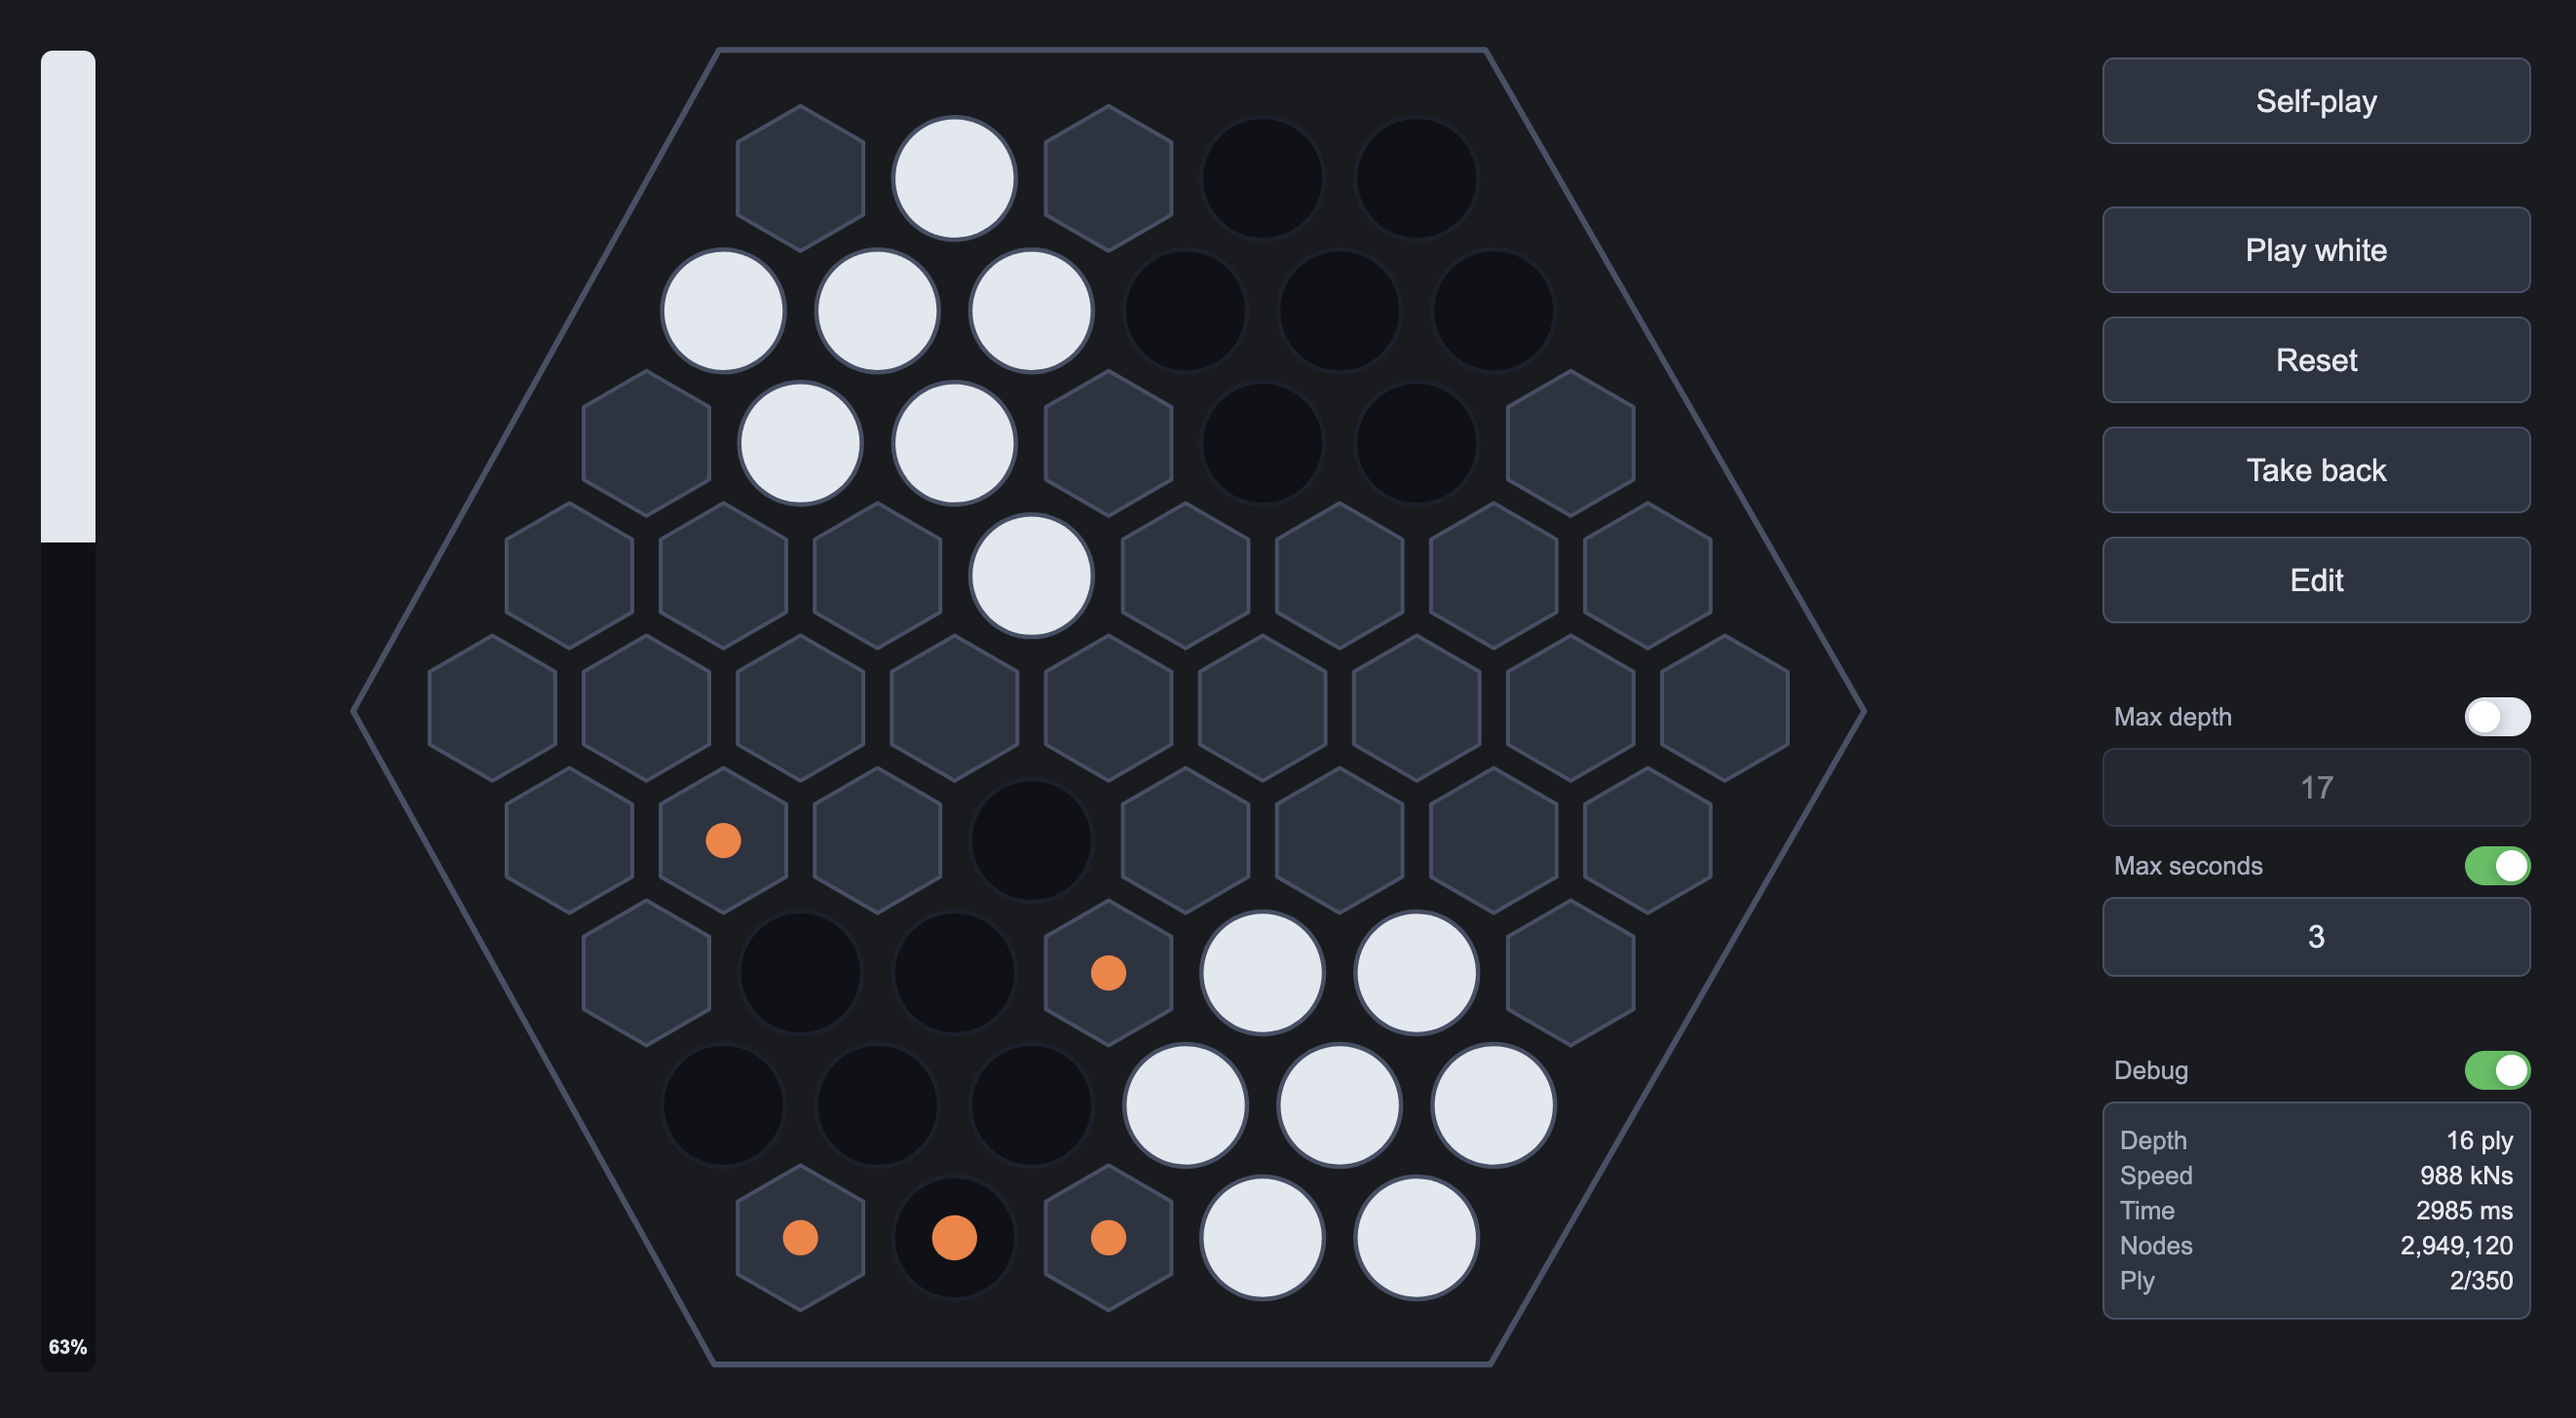
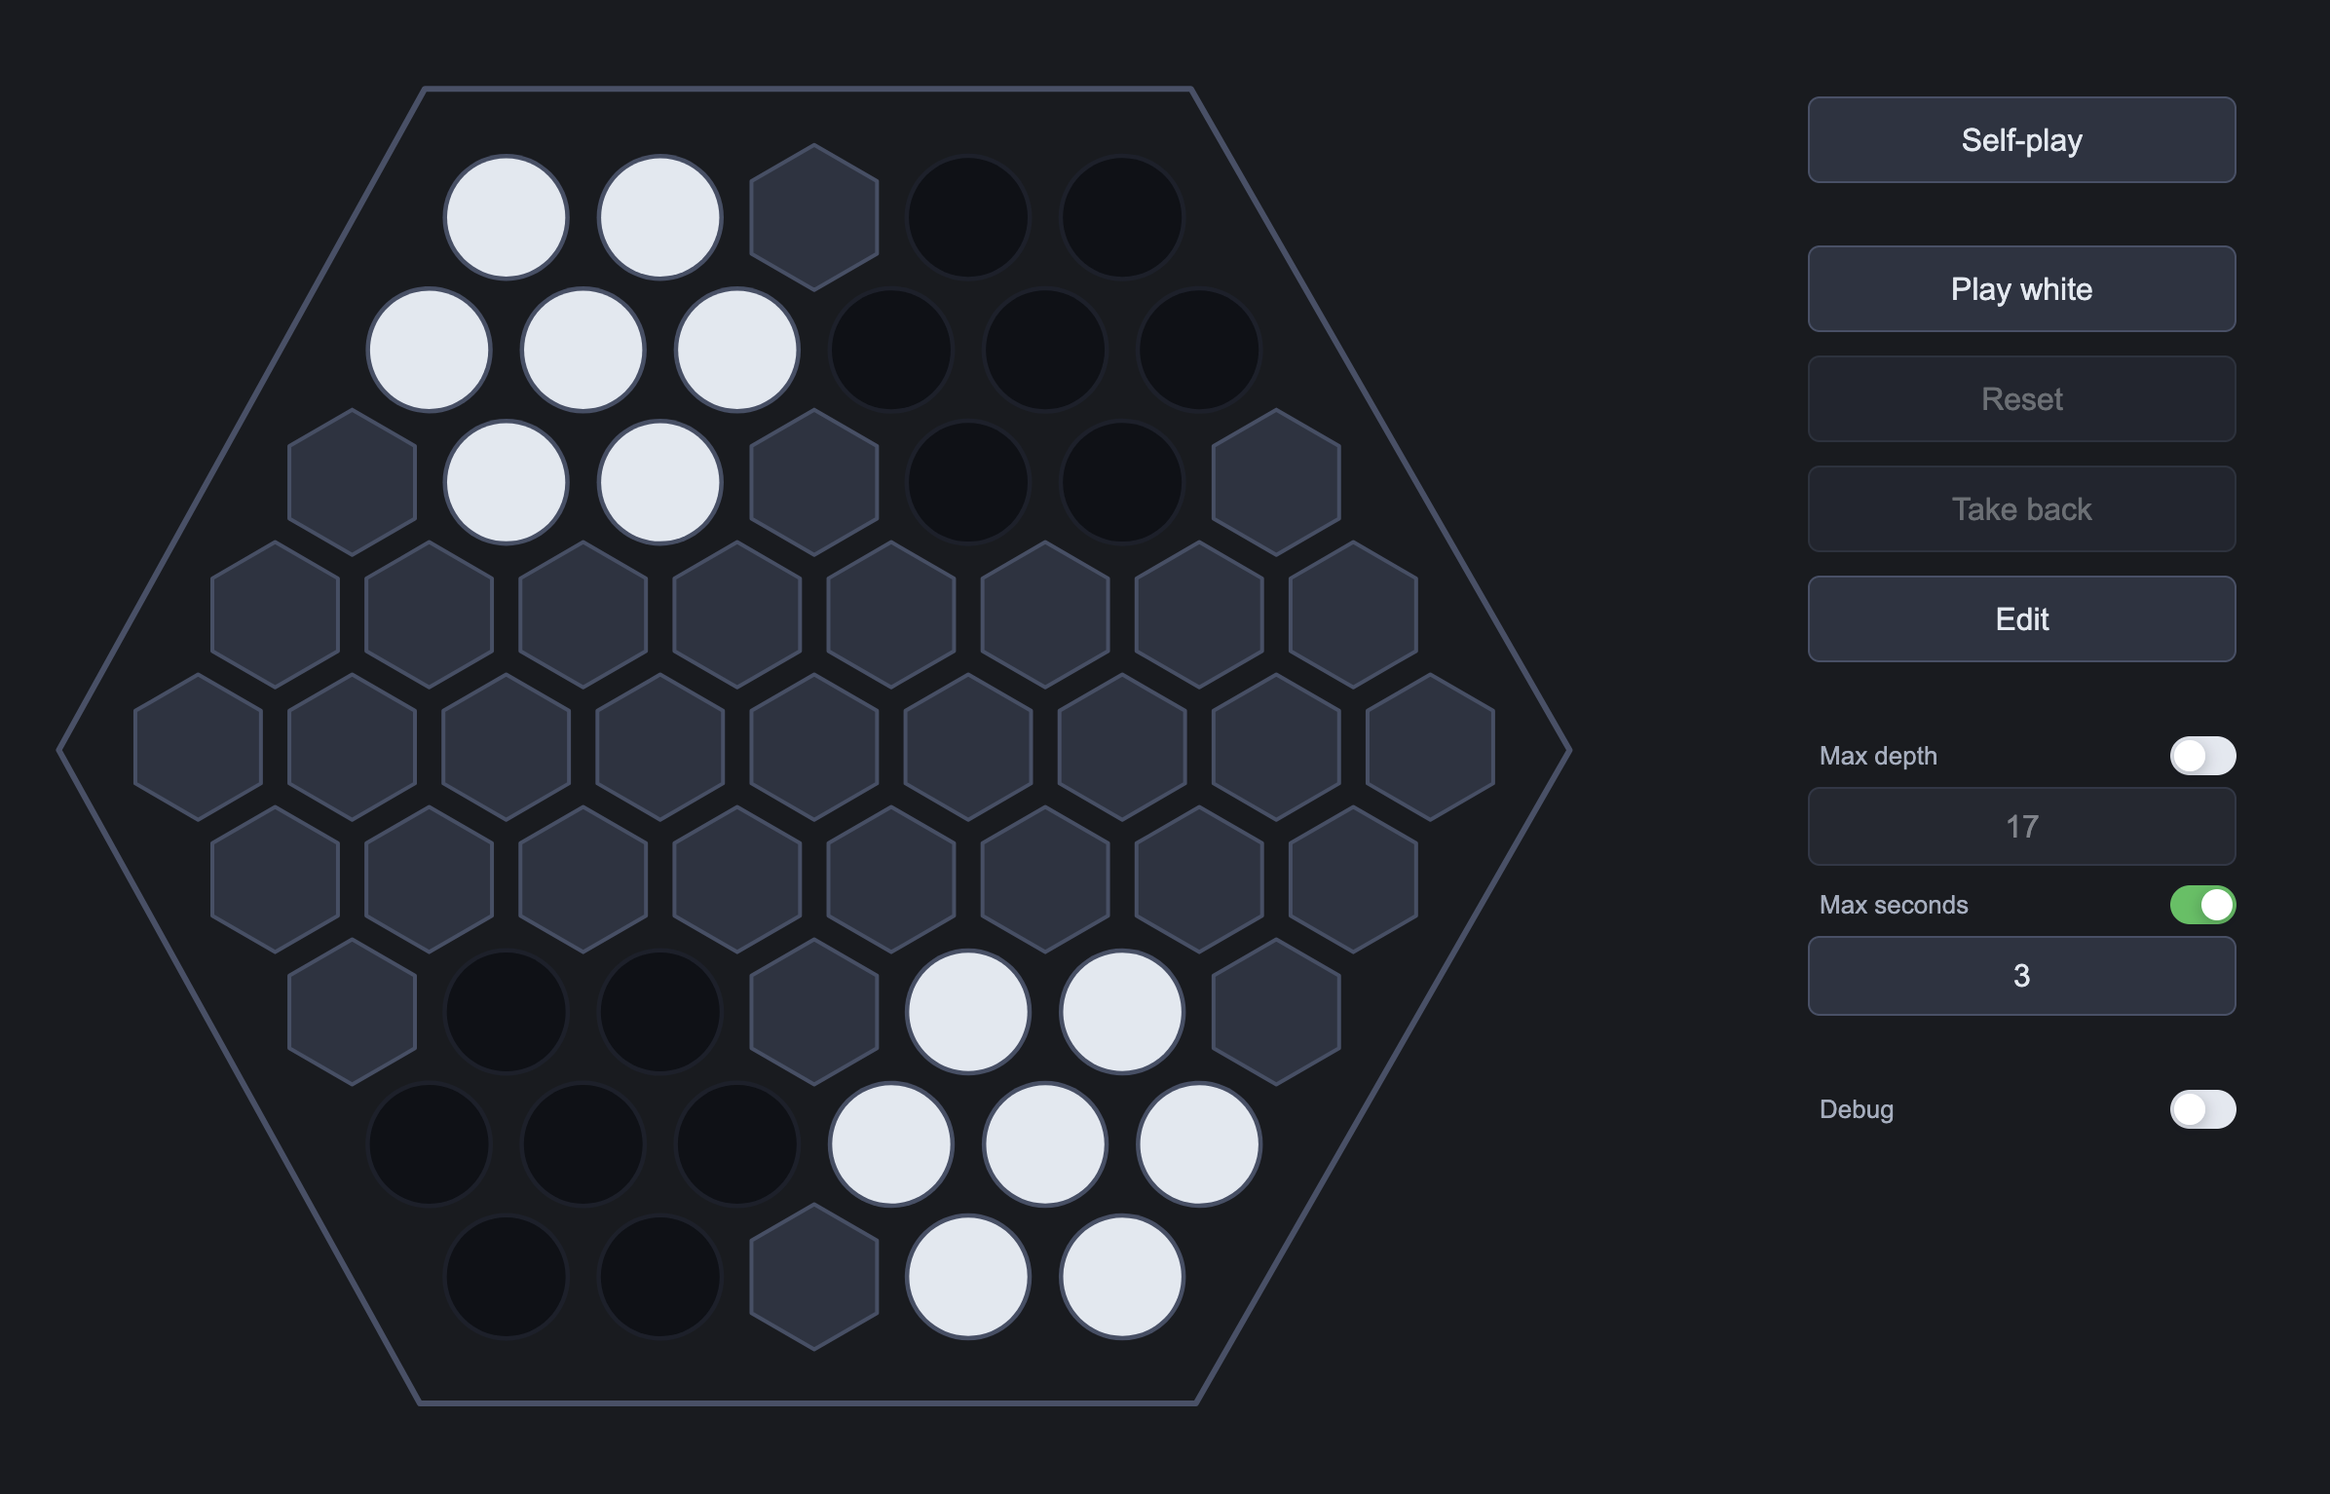
Update WASM preview and disable debug by default

diff --git a/web/index.html b/web/index.html
@@ -106,7 +106,7 @@
                 class="toggle-switch"
                 type="button"
                 data-toggle="debug"
-                aria-pressed="true"
+                aria-pressed="false"
                 aria-label="Toggle debug"
               >
                 <span class="toggle-thumb"></span>

diff --git a/web/main.js b/web/main.js
@@ -53,7 +53,7 @@ const state = {
   nextRequestId: 1,
   activeRequestId: null,
   lastEngineSearchInfo: null,
-  debugEnabled: true,
+  debugEnabled: false,
   lastEngineDebugInfo: null,
   notice: '',
   noticeKind: null,
